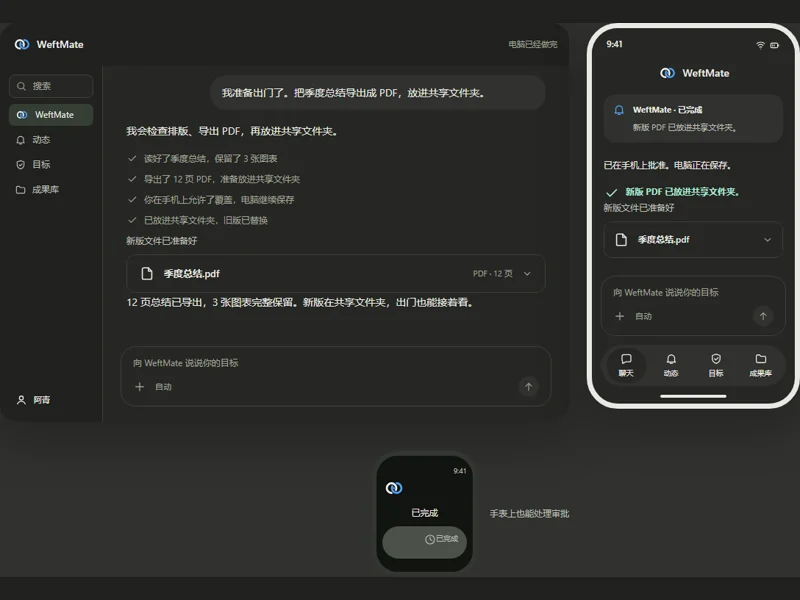
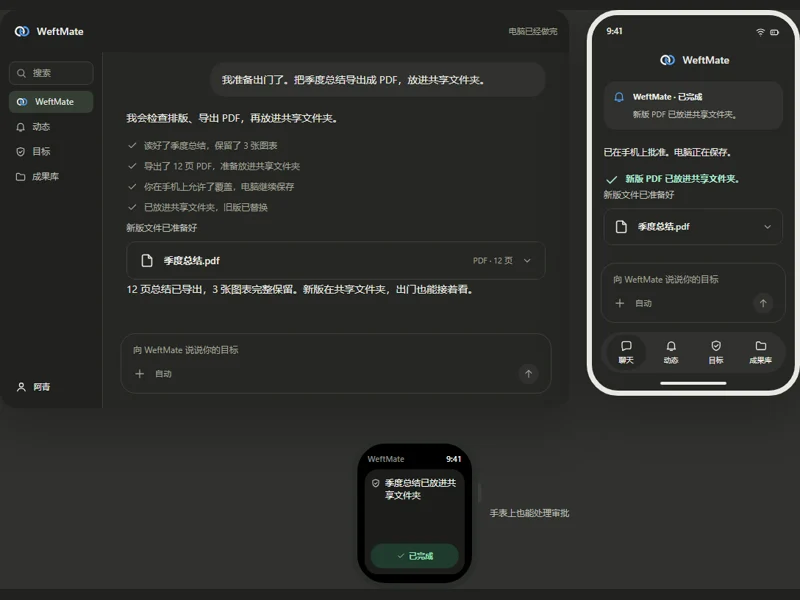
fix(site): redraw the watch mockup and tighten the phone approval card

diff --git a/site/src/site.css b/site/src/site.css
@@ -39,3 +39,33 @@ html:not(.has-js) .header-tools .menu-wrap{display:none}
 .auto-allow{animation:auto-confirm 800ms cubic-bezier(.16,1,.3,1)}@keyframes auto-confirm{0%,45%{transform:scale(1)}70%{transform:scale(.96);box-shadow:0 0 0 4px var(--site-blue-soft)}100%{transform:scale(1)}}
 
 .watch-device .watch-display{width:100%}.hero [inert]{pointer-events:none}
+
+/* 手表示意：对照真实手表端（黑底、标题与时间、深灰问题卡、并排的批准 / 拒绝） */
+.watch-device{width:172px;position:relative}
+.watch-device::after{content:"";position:absolute;right:-5px;top:30%;width:5px;height:26px;border-radius:0 3px 3px 0;background:#3a3c38}
+.watch-device .watch-display{box-sizing:border-box;width:100%;min-height:206px;border:8px solid #2b2d2a;border-radius:46px;background:#000;color:#f2f3ee;padding:var(--wm-space-14) var(--wm-space-10) var(--wm-space-12);text-align:left;display:flex;flex-direction:column;gap:var(--wm-space-8)}
+.watch-top{display:flex;align-items:baseline;justify-content:space-between;padding:0 var(--wm-space-4);font-size:11px;line-height:1.2}
+.watch-top strong{color:#8e918a;font-weight:550}
+.watch-top span{color:#f2f3ee;font-weight:600;font-variant-numeric:tabular-nums}
+.watch-card{flex:1;display:flex;flex-direction:column;justify-content:space-between;gap:var(--wm-space-8);background:#1c1d1b;border-radius:18px;padding:var(--wm-space-10) var(--wm-space-8) var(--wm-space-8)}
+.watch-card>p{display:flex;gap:var(--wm-space-6);align-items:flex-start;margin:0;font-size:12px;line-height:1.4;color:#f2f3ee}
+.watch-card>p>.icon{width:14px;height:14px;flex:none;margin-top:2px;color:#c9ccc3}
+.watch-actions{display:flex;gap:var(--wm-space-6)}
+.watch-device .watch-approval,.watch-deny{flex:1;display:inline-flex;align-items:center;justify-content:center;gap:var(--wm-space-4);min-height:34px;padding:0 var(--wm-space-6);border-radius:var(--wm-radius-999);font-size:11px;font-weight:550;line-height:1;white-space:nowrap;background:#33352f;color:#f2f3ee}
+.watch-device .watch-approval>.icon,.watch-deny>.icon{width:13px;height:13px}
+.watch-deny{display:none}
+.watch-waiting .watch-approval{background:#4DA3FF;color:#06121f}
+.watch-waiting .watch-deny{display:inline-flex}
+.watch-complete .watch-approval{background:#1f3a2c;color:#8fe0b5}
+.three-screens{grid-template-columns:minmax(0,1fr) 250px 172px}
+/* 三屏画面里的手机审批：和真实产品一样贴在输入框上方，做成紧凑的一条 */
+.three-screens .illustrated-approval{background:var(--surface-soft);border-radius:var(--wm-radius-14);padding:var(--wm-space-10) var(--wm-space-12);margin:0 0 var(--wm-space-8);font-size:11px}
+.three-screens .illustrated-approval>p{font-size:11px;line-height:1.45;margin:0 0 var(--wm-space-8);gap:var(--wm-space-6)}
+.three-screens .illustrated-approval>p>.icon{width:15px;height:15px;flex:none;margin-top:1px}
+.three-screens .illustrated-approval .approval-actions{gap:var(--wm-space-6);flex-wrap:nowrap}
+.three-screens .illustrated-approval .button{min-height:30px;padding:var(--wm-space-4) var(--wm-space-12);font-size:11px;gap:var(--wm-space-4)}
+.three-screens .illustrated-approval .button .icon{width:13px;height:13px}
+.three-screens .product[data-demo-view="phone"] .messages{min-height:120px}
+@media(max-width:1199px){.three-screens{grid-template-columns:minmax(0,1fr) 220px 150px}.three-screens .watch-device{width:150px}.three-screens .watch-device .watch-display{min-height:186px;border-width:7px;border-radius:40px}}
+@media(max-width:900px){.three-screens{grid-template-columns:minmax(0,1fr) 220px}}
+@media(max-width:600px){.three-screens{grid-template-columns:minmax(0,1fr) 118px}.three-screens .watch-device,.remote-watch .watch-device{width:118px}.three-screens .watch-device .watch-display,.remote-watch .watch-device .watch-display{min-height:172px;border-width:6px;border-radius:34px;padding:var(--wm-space-10) var(--wm-space-7) var(--wm-space-8)}.watch-actions{flex-direction:column}.watch-device .watch-approval,.watch-deny{min-height:28px;font-size:10px}.watch-card>p{font-size:11px}.watch-top{font-size:10px}.three-screens .product[data-demo-view="phone"] .messages{min-height:90px}}

diff --git a/site/src/app.js b/site/src/app.js
@@ -54,7 +54,7 @@ class Demo {
  remoteRender(){const computer=this.remote.querySelector('.remote-desktop .product'),phone=this.remote.querySelector('.remote-phone .product');const cm=computer.querySelector('[data-messages]'),pm=phone.querySelector('[data-messages]');let html=bubble(c.quarterPrompt);if(this.step>=1)html+=`<p class="chat-assistant" data-plan>${c.quarterPlan}</p>`;if(this.step>=2)html+=progress(c.quarterRead);if(this.step>=3)html+=progress(c.quarterExported);if(this.step===4&&!this.declined)html+=`<div class="computer-wait">${icon('phone')}<strong>${c.computerWaiting}</strong><p>${c.remoteNote}</p></div>`;if(this.step>=5)html+=progress(c.quarterAllowed);if(this.step>=6)html+=progress(c.quarterSaved)+files(c,{quarter:true});if(this.step===7)html+=answer(c.quarterFinish);if(this.declined)html+=`<p class="declined">${icon('deny')}${c.remoteDeclined}</p>`;cm.innerHTML=html;
   const status=this.declined?c.remoteDeclined:this.step>=7?c.computerComplete:this.step===4?c.computerWaiting:c.computerWorking;computer.querySelector('[data-product-status]').textContent=status;computer.dataset.content=this.step<2?'brief':'full';
   pm.innerHTML=this.step<3?`<div class="phone-idle">${icon('desktop')}<strong>${c.remoteIdle}</strong><p>${c.quarterFile}</p></div>`:`<div class="system-notification" data-notification>${icon('bell')}<div><strong>${this.step>=7?c.notificationDoneTitle:this.step>=5?c.notificationApprovedTitle:c.notificationTitle}</strong><p>${this.step>=7?c.phoneFinished:this.step>=5?c.phoneAllowed:c.notificationBody}</p></div></div>${answer(this.step>=5?c.phoneAllowed:c.phoneRequest)}${this.step>=7?`<div class="phone-complete">${icon('allow')}<strong>${c.phoneFinished}</strong></div>`+files(c,{quarter:true}):''}`;
-  phone.querySelector('[data-approval]').innerHTML=this.waiting()?this.approvals(c.quarterApproval,true):'';const watch=this.remote.querySelector('.watch-device');watch.classList.toggle('watch-complete',this.step>=7);watch.querySelector('[data-watch-message]').textContent=this.step>=7?c.watchFinished:this.step===4?c.computerWaiting:this.step>=5?c.watchSaving:c.watchWorking;watch.querySelector('.watch-approval').innerHTML=icon(this.step===4?'allow':'clock')+(this.step>=7?c.watchFinished:this.step===4?c.watchAction:this.step>=5?c.watchSaving:c.watchWorking);pm.scrollTo({top:pm.scrollHeight,behavior:'instant'});cm.scrollTo({top:cm.scrollHeight,behavior:'instant'});
+  phone.querySelector('[data-approval]').innerHTML=this.waiting()?this.approvals(c.quarterApproval,true):'';const watch=this.remote.querySelector('.watch-device');watch.classList.toggle('watch-complete',this.step>=7);watch.classList.toggle('watch-waiting',this.step===4);watch.querySelector('[data-watch-message]').textContent=this.step>=7?c.watchDoneLine:this.step===4?c.watchQuestion:this.step>=5?c.watchApprovedLine:c.watchIdle;watch.querySelector('.watch-approval').innerHTML=icon(this.step===4||this.step>=7?'allow':'clock')+(this.step>=7?c.watchFinished:this.step===4?c.watchAction:this.step>=5?c.watchSaving:c.watchWorking);pm.scrollTo({top:pm.scrollHeight,behavior:'instant'});cm.scrollTo({top:cm.scrollHeight,behavior:'instant'});
  }
  render(){this.stopTyping();let html='';this.el.dataset.scene=String(this.scene);this.el.dataset.step=String(this.step);this.el.dataset.state=this.declined?'declined':this.waiting()?'waiting':this.step===this.last?'complete':'playing';this.product.dataset.demoView=this.view;this.product.dataset.content=this.step<3?'brief':'full';this.approval.innerHTML='';
   if(!this.hero){this.local.hidden=this.scene===2;this.remote.hidden=this.scene!==2;this.el.querySelector('.view-toggle').hidden=this.scene===2;this.local.dataset.view=this.view;this.el.querySelectorAll('button[data-view]').forEach(b=>b.setAttribute('aria-pressed',String(b.dataset.view===this.view)));}
